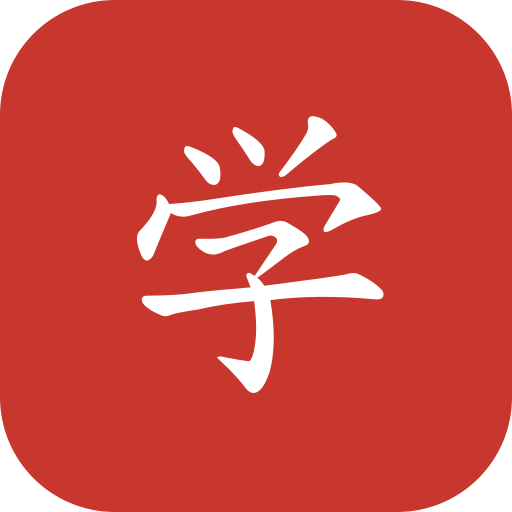
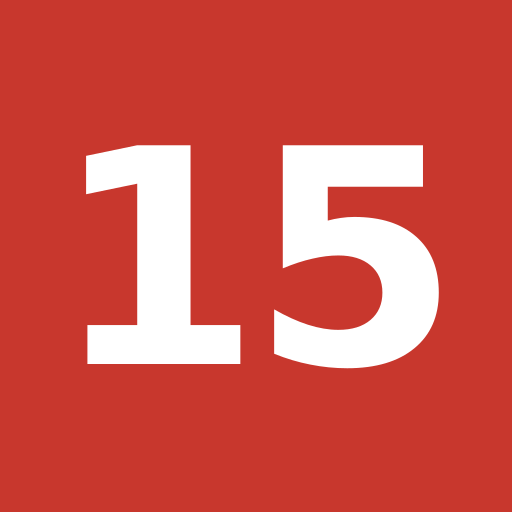
Rename to Lingo15, enable ads (rating G), release build script, signing config

diff --git a/lib/core/services/ad_service.dart b/lib/core/services/ad_service.dart
@@ -18,6 +18,10 @@ class AdUnits {
   static const _interstitial = String.fromEnvironment('AD_INTERSTITIAL_ID');
   static const _rewarded = String.fromEnvironment('AD_REWARDED_ID');
 
+  /// True when at least one ad unit is usable in this build.
+  static bool get anyConfigured =>
+      banner != null || interstitial != null || rewarded != null;
+
   static String? get banner =>
       kReleaseMode ? (_banner.isEmpty ? null : _banner) : _testBanner;
   static String? get interstitial => kReleaseMode
@@ -119,6 +123,9 @@ class AdMobService implements AdService {
   Future<void> init() async {
     if (_initStarted) return;
     _initStarted = true;
+    // No real ad units (a release build without --dart-define ids): stay
+    // fully ad-free, with no consent form and no SDK start.
+    if (!AdUnits.anyConfigured) return;
     try {
       final done = Completer<void>();
       ConsentInformation.instance.requestConsentInfoUpdate(
@@ -136,7 +143,7 @@ class AdMobService implements AdService {
       _canRequest = await ConsentInformation.instance.canRequestAds();
       if (!_canRequest) return;
       await MobileAds.instance.updateRequestConfiguration(
-        RequestConfiguration(maxAdContentRating: MaxAdContentRating.pg),
+        RequestConfiguration(maxAdContentRating: MaxAdContentRating.g),
       );
       await MobileAds.instance.initialize();
       _loadInterstitial();

diff --git a/lib/features/onboarding/onboarding_screen.dart b/lib/features/onboarding/onboarding_screen.dart
@@ -164,8 +164,13 @@ class _WelcomePage extends StatelessWidget {
             ),
             alignment: Alignment.center,
             child: const Text(
-              '学',
-              style: TextStyle(fontSize: 84, color: Colors.white, height: 1.1),
+              '15',
+              style: TextStyle(
+                fontSize: 64,
+                fontWeight: FontWeight.w800,
+                color: Colors.white,
+                height: 1.1,
+              ),
             ),
           ),
           const SizedBox(height: 32),

diff --git a/android/app/src/main/kotlin/com/homilabs/lingo15/MainActivity.kt b/android/app/src/main/kotlin/com/homilabs/lingo15/MainActivity.kt
@@ -1,4 +1,4 @@
-package com.homilabs.lingodaily
+package com.homilabs.lingo15
 
 import io.flutter.embedding.android.FlutterActivity
 

diff --git a/tool/make_icons.py b/tool/make_icons.py
@@ -1,8 +1,8 @@
 #!/usr/bin/env python3
-"""Draws the launcher icon from the 学 stroke outlines (Make Me a Hanzi data).
+"""Draws the launcher icon: a bold "15" on the brand red.
 
 Writes legacy and adaptive icon PNGs under android/app/src/main/res/.
-Run: python3 tool/make_icons.py   (needs inkscape; data/raw from scripts/fetch_sources.sh)
+Run: python3 tool/make_icons.py   (needs inkscape and the DejaVu Sans font)
 """
 import json, os, subprocess, tempfile
 
@@ -10,29 +10,20 @@ ROOT = os.path.dirname(os.path.dirname(os.path.abspath(__file__)))
 RES = os.path.join(ROOT, "android", "app", "src", "main", "res")
 RED = "#C8372D"
 
-def glyph_paths(ch):
-    with open(os.path.join(ROOT, "data", "raw", "mmah_graphics.txt"), encoding="utf-8") as f:
-        for line in f:
-            e = json.loads(line)
-            if e["character"] == ch:
-                return e["strokes"]
-    raise SystemExit("glyph not found")
-
-def svg(kind, strokes):
-    # Glyph box is 1024 wide, y-up with baseline 900. Scale to fill `fill` of the canvas.
-    if kind == "legacy":      # full-bleed rounded square
-        size, fill, bg, radius = 1024, 0.64, RED, 230
-    elif kind == "background":
-        size, fill, bg, radius = 1024, 0, RED, 0
-    else:                     # adaptive foreground: transparent, inside the 66% safe zone
-        size, fill, bg, radius = 1024, 0.50, None, 0
-    paths = "".join(f'<path d="{d}"/>' for d in strokes)
-    s = size * fill / 1024
-    off = (size - 1024 * s) / 2
-    g = (f'<g fill="#FFFFFF" transform="translate({off:.1f},{off + 900 * s:.1f}) scale({s:.4f},{-s:.4f})">{paths}</g>'
-         if fill else "")
+def svg(kind, _unused=None):
+    """Bold "15" on the brand red. Language-neutral: the app teaches several languages."""
+    if kind == "legacy":        # launcher icon, rounded
+        size, fs, bg, radius = 1024, 600, RED, 230
+    elif kind == "play":        # Play Store icon: full-bleed square (Play applies the mask)
+        size, fs, bg, radius = 1024, 600, RED, 0
+    else:                       # adaptive foreground: inside the 66% safe zone
+        size, fs, bg, radius = 1024, 420, None, 0
     rect = f'<rect width="{size}" height="{size}" rx="{radius}" fill="{bg}"/>' if bg else ""
-    return f'<svg xmlns="http://www.w3.org/2000/svg" viewBox="0 0 {size} {size}">{rect}{g}</svg>'
+    text = (f'<text x="{size/2}" y="{size/2 + fs*0.36}" text-anchor="middle" fill="#FFFFFF" '
+            f'font-family="DejaVu Sans, Liberation Sans, sans-serif" font-weight="bold" '
+            f'font-size="{fs}" letter-spacing="-20">15</text>')
+    return f'<svg xmlns="http://www.w3.org/2000/svg" viewBox="0 0 {size} {size}">{rect}{text}</svg>'
+
 
 def render(svg_text, out, px):
     with tempfile.NamedTemporaryFile("w", suffix=".svg", delete=False) as t:
@@ -45,7 +36,7 @@ def render(svg_text, out, px):
     os.unlink(name)
 
 def main():
-    strokes = glyph_paths("学")
+    strokes = None
     dens = {"mdpi": 1, "hdpi": 1.5, "xhdpi": 2, "xxhdpi": 3, "xxxhdpi": 4}
     for d, k in dens.items():
         render(svg("legacy", strokes), f"{RES}/mipmap-{d}/ic_launcher.png", int(48 * k))
@@ -67,7 +58,7 @@ def main():
 </resources>
 ''')
     # 512 px Play Store icon
-    render(svg("legacy", strokes), os.path.join(ROOT, "store", "play_icon_512.png"), 512)
+    render(svg("play", strokes), os.path.join(ROOT, "store", "play_icon_512.png"), 512)
     print("icons written")
 
 main()

diff --git a/scripts/gen_arb.py b/scripts/gen_arb.py
@@ -7,7 +7,7 @@ Placeholders: {name} with an optional type, e.g. n:int.
 import json, os, re
 
 S = [
- ("appName", "LingoDaily", {}),
+ ("appName", "Lingo15", {}),
  # navigation
  ("navToday", "Today", {}), ("navPath", "Path", {}), ("navProgress", "Progress", {}), ("navSettings", "Settings", {}),
  # common
@@ -184,7 +184,7 @@ S = [
  # about
  ("aboutTitle", "About", {}),
  ("aboutVersion", "Version {v}", {"v": "String"}),
- ("aboutBody", "LingoDaily helps you learn a language in short daily sessions: listen, speak, read and write.", {}),
+ ("aboutBody", "Lingo15 helps you learn a language in short daily sessions: listen, speak, read and write.", {}),
  ("aboutAds", "The app is free and supported by ads. You can change your ad choices in Settings.", {}),
  ("aboutCredits", "Data credits", {}),
  ("aboutLicenceText", "View licence text", {}),

diff --git a/docs/ads.md b/docs/ads.md
@@ -1,8 +1,9 @@
 # Ads (AdMob)
 
-- SDK: `google_mobile_ads`, consent via Google's User Messaging Platform (shown after onboarding, first time the main tabs appear). Max ad content rating PG.
+- SDK: `google_mobile_ads`, consent via Google's User Messaging Platform (shown after onboarding, first time the main tabs appear). Max ad content rating **G** (family-safe ads only; set in `AdMobService.init`). Also block sensitive ad categories in AdMob (Blocking controls).
 - **Debug and profile builds use Google's public test ids.** The manifest also holds Google's **test application id** (`android/app/src/main/AndroidManifest.xml`, `com.google.android.gms.ads.APPLICATION_ID`).
-- **Before the first release:**
+- **Live setup (done):** AdMob app `ca-app-pub-2087846699268567~3604136764` is in the manifest; unit ids sit in `.secrets/ad-units.env` and are applied by `scripts/build_release.sh`. The AD_ID permission is kept (Play advertising ID = Yes).
+- **Original release checklist:**
   1. Create the app and three ad units (banner, interstitial, rewarded) in AdMob.
   2. Replace the application id in the manifest.
   3. Build with the unit ids:
@@ -10,4 +11,4 @@
      A release build without these defines shows **no ads** (by design, so test ads never ship).
   4. Publish `app-ads.txt` on the developer website, fill the Play Data safety form (advertising ID, ad interactions) and add a privacy policy link.
 - Placement policy lives in `InterstitialPolicy` (tested in `test/srs_and_streak_test.dart`). Banner slot: `HomeShell`. Rewarded: streak repair on the Today screen.
-- The app is not designed for children; do not enrol it in Families programmes.
+- Ads are family-suitable (rating G), but the app is aimed at ages 13+ and is not enrolled in Play Families programmes. Child-directed treatment is not set.

diff --git a/CLAUDE.md b/CLAUDE.md
@@ -1,6 +1,6 @@
-# LingoDaily — learn languages in 15 minutes a day
+# Lingo15 — learn languages in 15 minutes a day
 
-Flutter **Android** app (package `com.homilabs.lingodaily`, never change after the first Play upload). Two languages ship: Chinese (HSK 1–6) and German (CEFR A1–C2); built to host more. Free, supported by AdMob ads. Working title: change `android:label`, `app_en.arb` (`appName`) and the icon script if renamed.
+Flutter **Android** app (package `com.homilabs.lingo15`, never change after the first Play upload). Two languages ship: Chinese (HSK 1–6) and German (CEFR A1–C2); built to host more. Free, supported by AdMob ads. Working title: change `android:label`, `app_en.arb` (`appName`) and the icon script if renamed.
 
 ## Locations
 - Root: `/mnt/storage/projects/Chinese`

diff --git a/README.md b/README.md
@@ -1,4 +1,4 @@
-# LingoDaily
+# Lingo15
 
 Learn **Chinese (HSK 1–6)** and **German (CEFR A1–C2)** on Android in **15 minutes a day** by listening, speaking, reading and writing. Built to host more languages.
 
